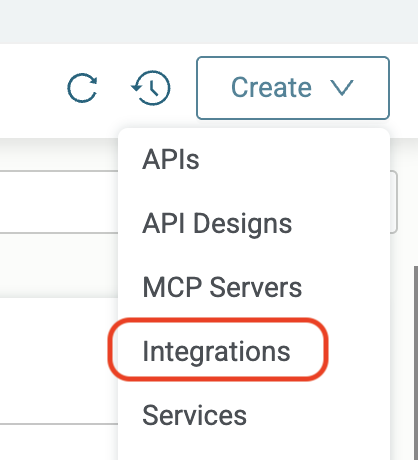
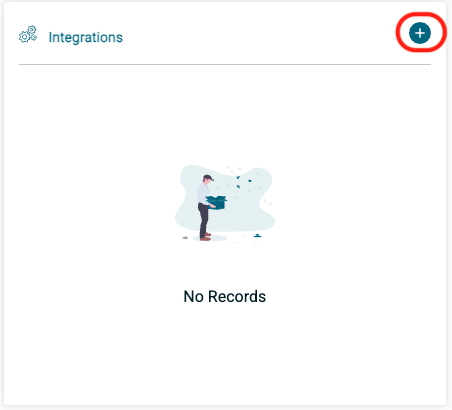
Changed screenshot to create new integration

diff --git a/hello-world/README.md b/hello-world/README.md
@@ -64,6 +64,9 @@ Create a new project and give it a meaningful name
 * Create an integration and provide a meaningful name
   
     <img src="images/lab1-add-integration.png" width="30%" />
+
+    Click on the + symbol next to Integrations to create a new integration and provide a meaningful name. 
+
     <img src="images/lab1-add-integration1.png" width="50%" />
 * Click on + Event and add Scheduler trigger
   ![Add Scheduler](images/lab1-add-scheduler-a.png)